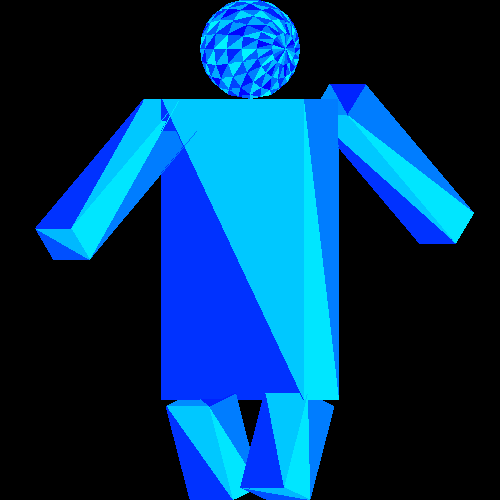
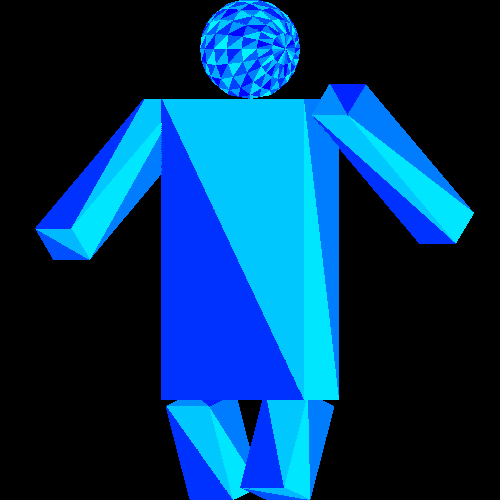
DAH REALLY?

diff --git a/draw.c b/draw.c
@@ -149,7 +149,7 @@ void draw_polygons( struct matrix *polygons, screen s, color c, struct matrix *z
       xL,xR = xB;
       zL,zR = zB;
       y = yB;
-      //      printf("draw_polygons\n");
+      //printf("draw_polygons\n");
       while(y<(int)yT){
 	if(y==(int)yB){
 	  xL = xB;
@@ -160,6 +160,7 @@ void draw_polygons( struct matrix *polygons, screen s, color c, struct matrix *z
 	  xL = xB + d0*(y-yB);
 	  d0 = (zT-zB)/(yT-yB);
 	  zL = zB + d0*(y-yB);
+	  //printf("1%f %f\n",zL,zT);
 	}
 	if (y >= (int) yM){
 	  if(y==(int)yM){
@@ -171,23 +172,25 @@ void draw_polygons( struct matrix *polygons, screen s, color c, struct matrix *z
 	    xR = xM + d2*(y-yM);
 	    d2 = (zT-zM)/(yT-yM);
 	    zR = zM + d2*(y-yM);
+	    //printf("2%f %f\n",zR,zT);
 	  }
 	}
 	else{
-	  if(y!=(int)yB){
+	  if(y==(int)yB){
+	    xR = xB;
+	    zR = zB;
+	  }
+	  else{
 	    d1 = (xM-xB)/(yM-yB);
 	    xR = xB + d1*(y-yB);
 	    d1 = (zM-zB)/(yM-yB);
 	    zR = zB + d1*(y-yB);
-	  }
-	  else{
-	    xR = xB;
-	    zR = zB;
+	    //printf("3%f %f\n",xR,xM);
 	  }
 	}
 	draw_line(xL,y,zL,xR,y,zR,s,c,zbuf);
 	y+=1;
-      }
+	}
     }
   }
 }
@@ -732,7 +735,7 @@ void draw_line(int x0, int y0, double z0, int x1, int y1, double z1, screen s, c
   //printf("draw_line\n");
   //positive slope: Octants 1, 2 (5 and 6)
   if ( dy == 0 && dx == 0 ){
-    //plot(s,c,x,y,z,zbuf);
+    plot(s,c,x,y,z,zbuf);
   }
   else if ( dy > 0 ) {
 
@@ -742,7 +745,6 @@ void draw_line(int x0, int y0, double z0, int x1, int y1, double z1, screen s, c
   
       while ( x <= x1 ) {
 	plot(s, c, x, y, z, zbuf);
-	//z = z0 + (x-x0)/(x1-x0)*(z1-z0);
 	if ( d < 0 ) {
 	  x = x + 1;
 	  d = d + dy;
@@ -753,7 +755,8 @@ void draw_line(int x0, int y0, double z0, int x1, int y1, double z1, screen s, c
 	  d = d + dy - dx;
 	}
 	
-	z = z0 + (x-x0)/(x1-x0)*(z1-z0);
+	z = z0 + ((double)x-x0)/(x1-x0)*(z1-z0);
+	//printf("1%f %f\n",z,z1);
       }
     }
 
@@ -762,7 +765,6 @@ void draw_line(int x0, int y0, double z0, int x1, int y1, double z1, screen s, c
       d = ( dy / 2 ) - dx;
       while ( y <= y1 ) {
 	plot(s, c, x, y, z, zbuf);
-	//z = z0 + (y-y0)/(y1-y0)*(z1-z0);
 	if ( d > 0 ) {
 	  y = y + 1;
 	  d = d - dx;
@@ -772,7 +774,8 @@ void draw_line(int x0, int y0, double z0, int x1, int y1, double z1, screen s, c
 	  x = x + 1;
 	  d = d + dy - dx;
 	}
-	z = z0 + (y-y0)/(y1-y0)*(z1-z0);
+	z = z0 + ((double)y-y0)/(y1-y0)*(z1-z0);
+	//printf("2%f %f\n",z,z1);
       }
     }
   }
@@ -788,7 +791,6 @@ void draw_line(int x0, int y0, double z0, int x1, int y1, double z1, screen s, c
       while ( x <= x1 ) {
 
 	plot(s, c, x, y, z, zbuf);
-	//z = z0 + (x-x0)/(x1-x0)*(z1-z0);
 	if ( d > 0 ) {
 	  x = x + 1;
 	  d = d + dy;
@@ -798,7 +800,8 @@ void draw_line(int x0, int y0, double z0, int x1, int y1, double z1, screen s, c
 	  y = y - 1;
 	  d = d + dy + dx;
 	}
-	z = z0 + (x-x0)/(x1-x0)*(z1-z0);
+	z = z0 + ((double)x-x0)/(x1-x0)*(z1-z0);
+	//printf("3%f %f\n",z,z1);
       }
     }
 
@@ -810,7 +813,6 @@ void draw_line(int x0, int y0, double z0, int x1, int y1, double z1, screen s, c
       while ( y >= y1 ) {
 	
 	plot(s, c, x, y, z, zbuf);
-	//z = z0 + (x-x0)/(x1-x0)*(z1-z0);
 	if ( d < 0 ) {
 	  y = y - 1;
 	  d = d + dx;
@@ -820,7 +822,8 @@ void draw_line(int x0, int y0, double z0, int x1, int y1, double z1, screen s, c
 	  x = x + 1;
 	  d = d + dy + dx;
 	}
-	z = z0 + (y-y0)/(y1-y0)*(z1-z0);
+	z = z0 + ((double)y-y0)/(y1-y0)*(z1-z0);
+	//printf("4%f %f\n",z,z1);
       }
     }
   }
